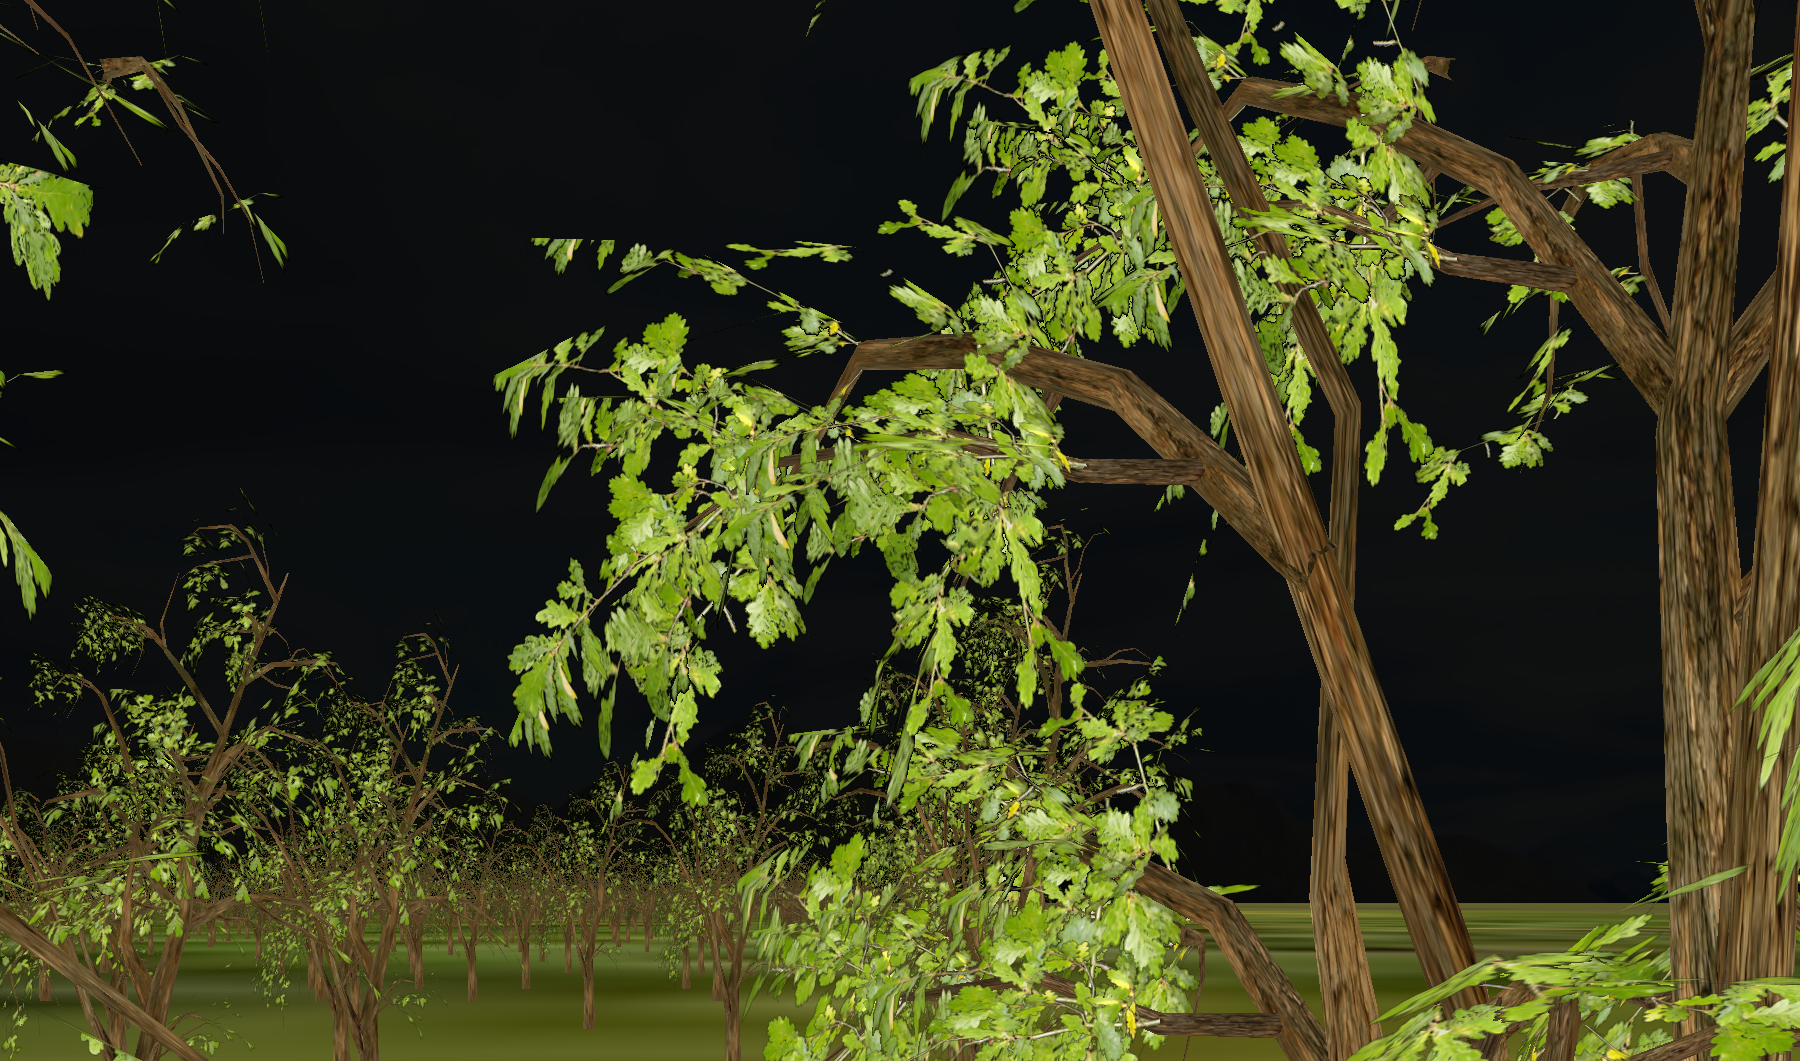
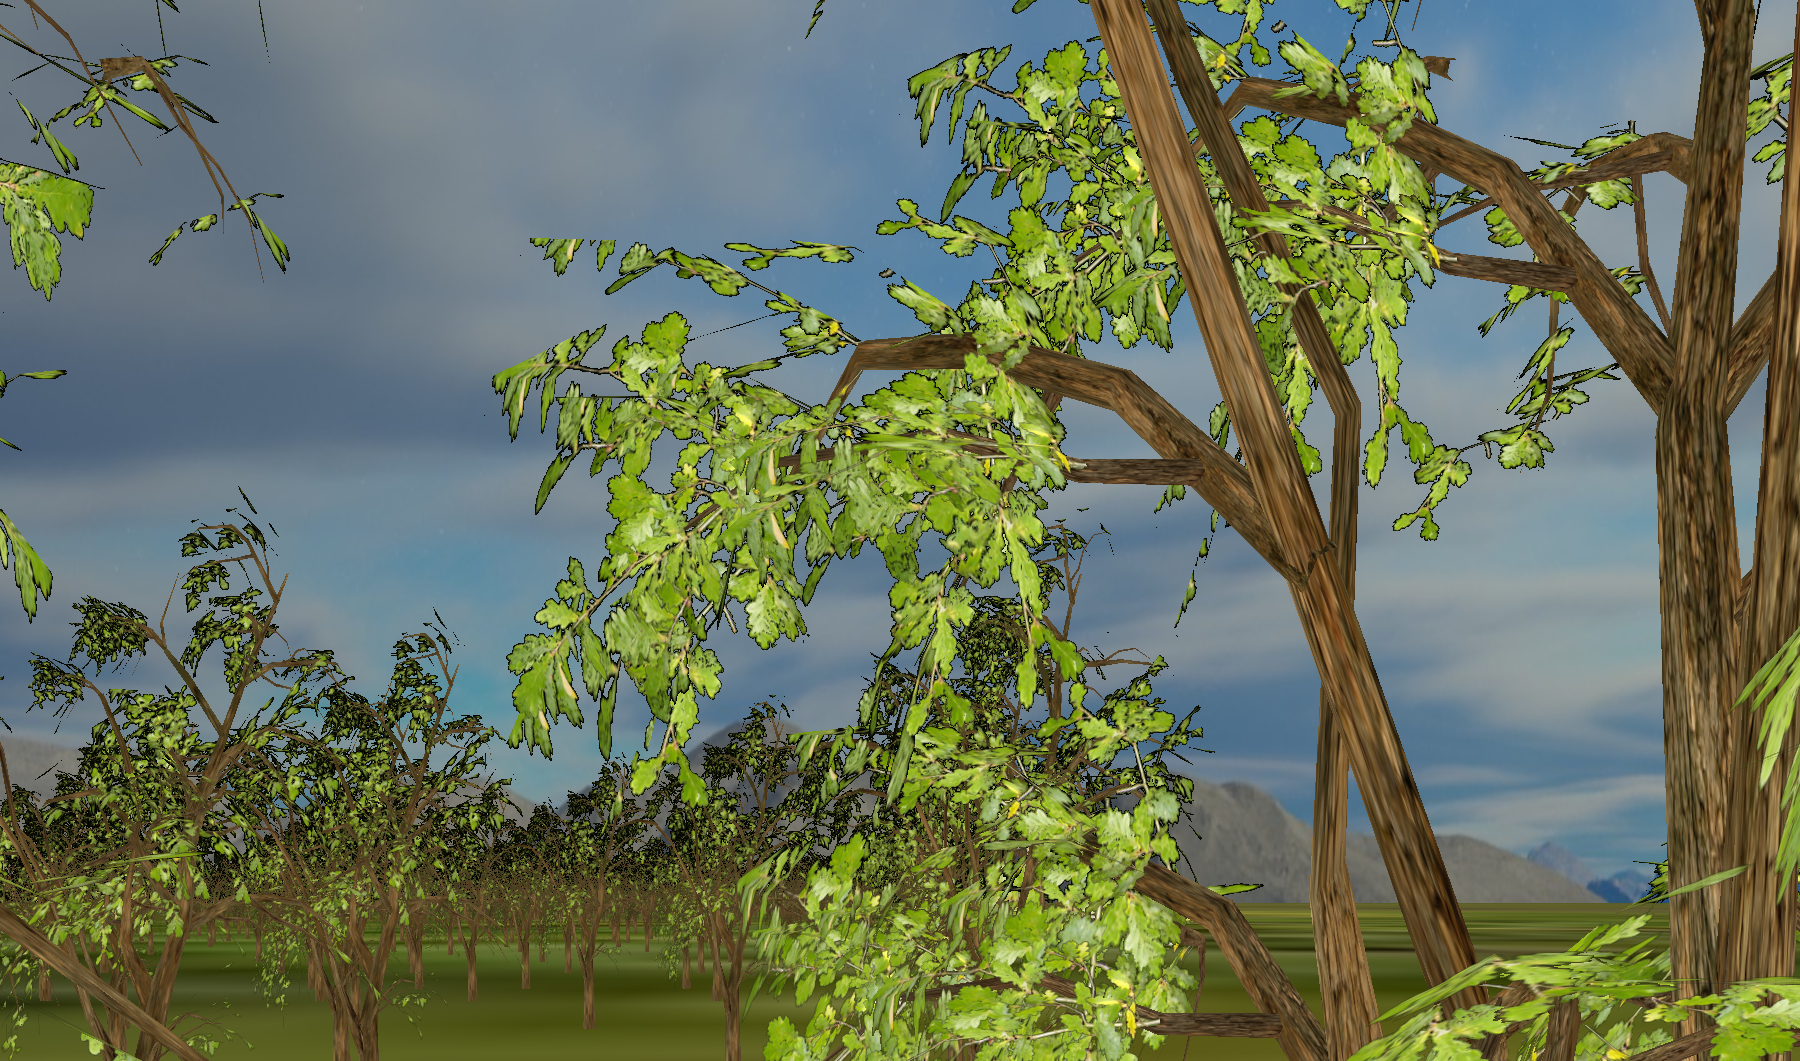
Updated

diff --git a/src/Renderer/Renderer.cpp b/src/Renderer/Renderer.cpp
@@ -264,20 +264,20 @@ void Renderer::FillUboDirLight(DirectionalLight& light)
 {
     glBindBuffer(GL_UNIFORM_BUFFER, uboDirLight);
 
-    //Ok... so this is working well for one shader, but not for the other
-
-    glBufferSubData(GL_UNIFORM_BUFFER, 0, sizeof(glm::vec4),
-        glm::value_ptr(light.GetVec4Direction()));
-
-    glBufferSubData(GL_UNIFORM_BUFFER, 16, sizeof(glm::vec4),
-        glm::value_ptr(light.GetVec4Ambient()));
+    glm::vec4 testcolor = glm::vec4(1, 0, 0, 0);
 
 
-    glBufferSubData(GL_UNIFORM_BUFFER, 32, sizeof(glm::vec4),
-        glm::value_ptr(light.GetVec4Diffuse()));
+    //Bug: Those values are not reaching the shader
 
-    glBufferSubData(GL_UNIFORM_BUFFER, 48, sizeof(glm::vec4),
-        glm::value_ptr(light.GetVec4Specular()));
+    glBufferSubData(GL_UNIFORM_BUFFER, 0, sizeof(glm::vec4), glm::value_ptr(light.GetDirection()));   //Dir
+
+    glBufferSubData(GL_UNIFORM_BUFFER, 16, sizeof(glm::vec4), glm::value_ptr(light.GetAmbientColor()));     //Ambient
+     
+    glm::vec4 debug = light.GetVec4Diffuse();
+
+    glBufferSubData(GL_UNIFORM_BUFFER, 32, sizeof(glm::vec4), glm::value_ptr(light.GetDiffuse()));    //Diff
+
+    glBufferSubData(GL_UNIFORM_BUFFER, 48, sizeof(glm::vec4), glm::value_ptr(light.GetSpecular()));   //Spec
 
     glBindBuffer(GL_UNIFORM_BUFFER, 0);
 }

diff --git a/src/Renderer/SceneManager.cpp b/src/Renderer/SceneManager.cpp
@@ -155,8 +155,8 @@ void SceneManager::LoadGlobalLigths()
 
     //DIR
     glm::vec3 directionalDir = glm::vec3(-0.2f, -1.0f, -0.3f);
-    glm::vec3 ambient = glm::vec3(0.0f);
-    glm::vec3 diff = glm::vec3(0.0f);
+    glm::vec3 ambient = glm::vec3(1.0f);
+    glm::vec3 diff = glm::vec3(1.0f);
     glm::vec3 spec = glm::vec3(0.0f);
 
     for (int i = 0; i < 1; i++)
